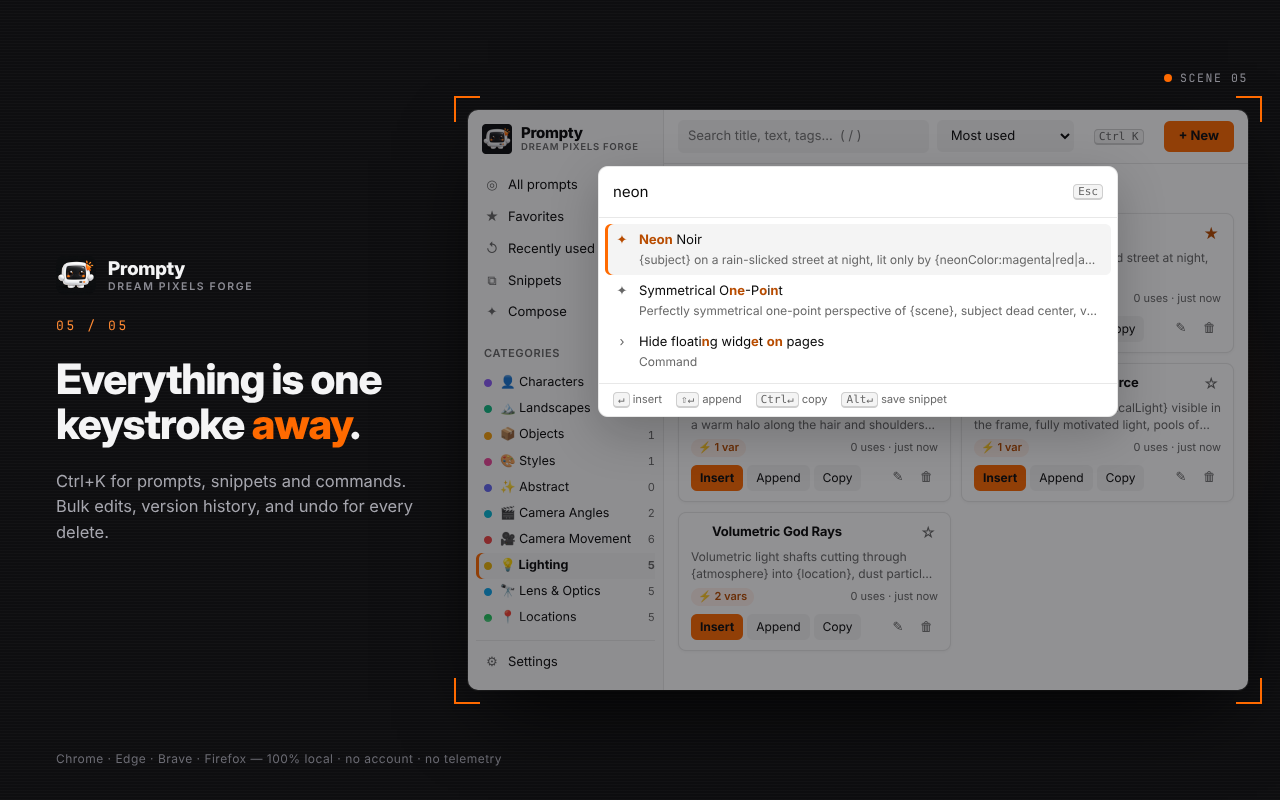
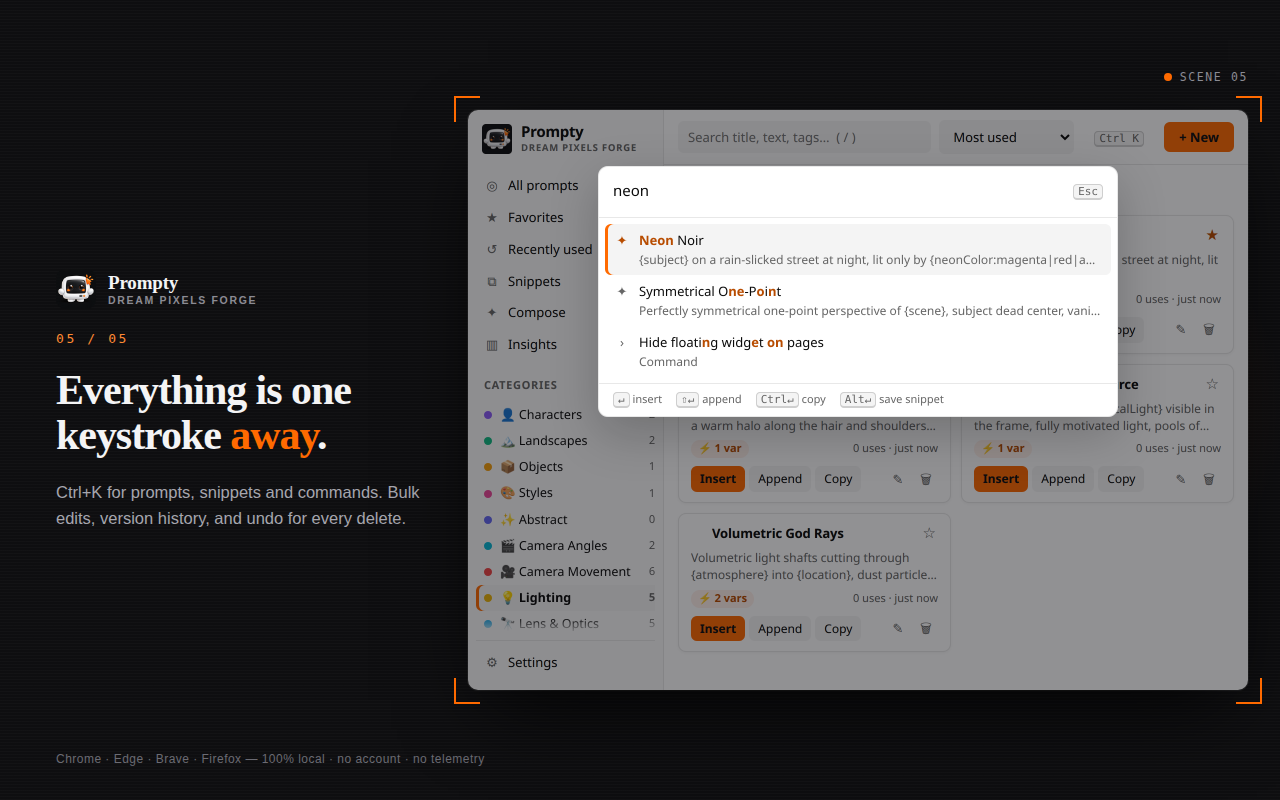
release: v0.4.0 — Sovereign (#35)
* fix(compose): don't detach the focused control mid-change

Editing a shot's duration, cut or format re-rendered the whole Composer from
that control's change handler. Chrome's replaceChildren() then detached the
focused control, fired blur, and threw:

  NotFoundError: The node to be removed is no longer a child of this node.
  Perhaps it was moved in a 'blur' event handler?

The render aborted, so the view could stay half-drawn.

mount() now blurs a focused descendant while it is still attached, before
replacing children. Views that need focus back already restore it through
data-focus-key (renderCompose). Focus outside the mounted subtree, such as the
search box, is untouched.

Regression test with a DOM stand-in whose replaceChildren throws exactly like
Chrome's when a focused child is attached.

* release: v0.4.0 — Sovereign

Version 0.4.0 ships everything under the old [Unreleased] heading: Vault Mode
(G10), Insights (G7), share packs (G13), the migration suite (G11), French
(G8b/G8c), the accessibility pass (G8a) and 5k-prompt performance (G12).

- package.json + src/manifest.base.json: 0.3.0 -> 0.4.0
- CHANGELOG: [Unreleased] dated and named; Composer focus fix listed
- store/listing.md: v0.4.0 title, 0.4.0 package names, description covers
  Insights, import, packs, Vault and the performance numbers
- store/screenshots: regenerated from the 0.4.0 build
- README: roadmap paragraph now describes v0.4 as shipped

diff --git a/src/popup/dom.js b/src/popup/dom.js
@@ -57,10 +57,24 @@ function append(parent, children) {
 
 /**
  * Replace all children of `el`.
+ *
+ * Chrome throws `NotFoundError: The node to be removed is no longer a child of
+ * this node` when `replaceChildren()` detaches the focused element: removal
+ * fires blur, and the focus fix-up can mutate the child list while it is being
+ * emptied. Re-rendering from a `change` handler on a control inside the view
+ * (duration, cut, format) hits exactly that. Blur while the element is still
+ * attached; views that need focus back restore it after rendering through
+ * `data-focus-key`.
  * @param {Element} el
  * @param {...(Child|Child[])} children
  */
 export function mount(el, ...children) {
+  const active = /** @type {HTMLElement|null} */ (
+    typeof document === 'undefined' ? null : document.activeElement
+  );
+  if (active && active !== el && el.contains(active) && typeof active.blur === 'function') {
+    active.blur();
+  }
   el.replaceChildren();
   append(el, children);
 }

diff --git a/store/listing.md b/store/listing.md
@@ -1,4 +1,4 @@
-# Store listing — v0.3.0
+# Store listing — v0.4.0
 
 Copy for the Chrome Web Store and Firefox Add-ons (AMO). Images in this folder are generated by
 `node scripts/store-screenshots.mjs` (after `pnpm build`).
@@ -7,7 +7,7 @@ Copy for the Chrome Web Store and Firefox Add-ons (AMO). Images in this folder a
 | ---------------------------------- | -------------------------------------------------- |
 | `screenshot-01.png` … `05`         | Screenshots, 1280×800, in this order (CWS and AMO) |
 | `promo-tile-440x280.png`           | Chrome Web Store small promo tile                  |
-| `../dist/prompty-0.3.0-*.zip/.xpi` | Upload packages (`pnpm package`)                   |
+| `../dist/prompty-0.4.0-*.zip/.xpi` | Upload packages (`pnpm package`)                   |
 
 ## Name
 
@@ -15,8 +15,7 @@ Prompty — Global Prompt Library
 
 ## Summary (CWS ≤ 132 characters, AMO ≤ 250)
 
-Save, organize and insert prompts on any site, then compose AI-video shots and multi-shot scenes.
-100% local, no account.
+Save, organize and insert prompts anywhere, compose AI-video shots, and keep it all local or encrypted.
 
 ## Category
 
@@ -55,22 +54,38 @@ way a director briefs a crew.
   cut events; Muse Video gets `STOP. HARD CUT.` shots. Prompty suggests the dialect for the site
   you're on and warns when a sequence fights the model.
 
+**Know what works**
+
+- **Insights**: most-used prompts, uses by category, prompts added per month, never-used and
+  dormant (90+ days) prompts, and recent fill-ins. Computed from what Prompty already stores;
+  nothing new is tracked. Tick **Select these** to hand a dormant list to the bulk bar.
+
 **Stay organized**
 
 - Categories with drag-to-reorder, tags, favorites, search and sort.
 - Bulk select to move, tag, star, copy, export or delete, with a 10-second undo.
 - Version history: compare any earlier take word by word and restore it.
-- Import and export as JSON.
+- **Import from another tool**: read a Prompty or Higgsfield export, CSV, text/Markdown or JSON,
+  de-duplicate automatically and see a merge report.
+- **Share packs**: select prompts and save a `.prompty` file with their categories and Composer
+  blocks; drop one on the popup to preview and import it.
+- Large libraries stay fast: 5,000 prompts open in about 0.3 s.
 
 **Private by design**
 
 Everything stays in your browser's local extension storage. Prompty makes no network requests, has
 no account and collects no analytics.
 
+- **Vault Mode** (optional): encrypt prompts, snippets, fill-in memory and Composer drafts with a
+  passphrase (AES-GCM-256, PBKDF2-SHA-256 at 250k iterations). The key is held in memory only and
+  the vault auto-locks. There is no passphrase recovery.
+
 ## Privacy practices (CWS) / data collection (AMO)
 
 - Data collected: **none**. Prompts, settings and history stay in `storage.local` on the device.
 - No remote code; no network requests.
+- Vault Mode is optional and on-device only: the passphrase, key and ciphertext never leave the
+  browser.
 - Single purpose: save, organize, compose and insert text prompts.
 
 ## Permission justifications

diff --git a/CHANGELOG.md b/CHANGELOG.md
@@ -3,7 +3,11 @@
 All notable changes to Prompty. Versions follow [Semantic Versioning](https://semver.org/);
 before 1.0, minor versions may change stored data shapes, and every such change migrates silently.
 
-## [Unreleased]
+## [0.4.0] — 2026-11-13 · "Sovereign"
+
+Prompty becomes a library you can trust with years of work: it can encrypt itself on demand, shows
+what you actually use, imports what you already have, and hands a selection to someone else as one
+file — and a 5,000-prompt library opens in about a third of a second instead of seven.
 
 ### Performance
 
@@ -63,6 +67,13 @@ before 1.0, minor versions may change stored data shapes, and every such change 
   - Duplicates are found by normalized text, so re-importing a file adds nothing.
   - Categories are matched by name.
   - The import can be undone for 10 s.
+
+### Fixed
+
+- Re-rendering the Composer from a control's `change` event (duration, cut, format, slots) no
+  longer throws `NotFoundError` in Chrome when it detaches the focused control; the control is
+  blurred before the view is replaced and focus returns through `data-focus-key`. Editing a
+  duration or picking a cut no longer aborts the render.
 
 ## [0.3.0] — 2026-11-10 · "Director's cut"
 

diff --git a/README.md b/README.md
@@ -102,12 +102,11 @@ store/                 store screenshots, promo tile, listing copy
 
 ## Roadmap
 
-v0.3 shipped the Ctrl+K palette, version history, bulk operations, Variables 2.0
-and the Composer (shots, sequences, model dialects). Still open on the roadmap:
-usage insights (G7), theming/a11y/i18n (G8), Vault Mode (G10), the Migration Suite
-(G11), large-library performance (G12) and `.prompty` share packs (G13) — all since
-shipped, see [`CHANGELOG.md`](CHANGELOG.md). See [`dev-notes/ROADMAP.md`](dev-notes/ROADMAP.md) and the shipped subgoal specs
-in [`dev-notes/subgoals/`](dev-notes/subgoals/README.md).
+v0.4 adds Vault Mode, Insights, share packs, the import suite, French, the
+accessibility pass and 5k-prompt performance. The remaining tier is the v0.4+
+"moonshots" — library hygiene, a burst generator, prompt hotkeys, snapshots and
+an on-device rewrite assist — listed in [`dev-notes/ROADMAP.md`](dev-notes/ROADMAP.md).
+Shipped subgoal specs live in [`dev-notes/subgoals/`](dev-notes/subgoals/README.md).
 
 ## License & attribution
 
